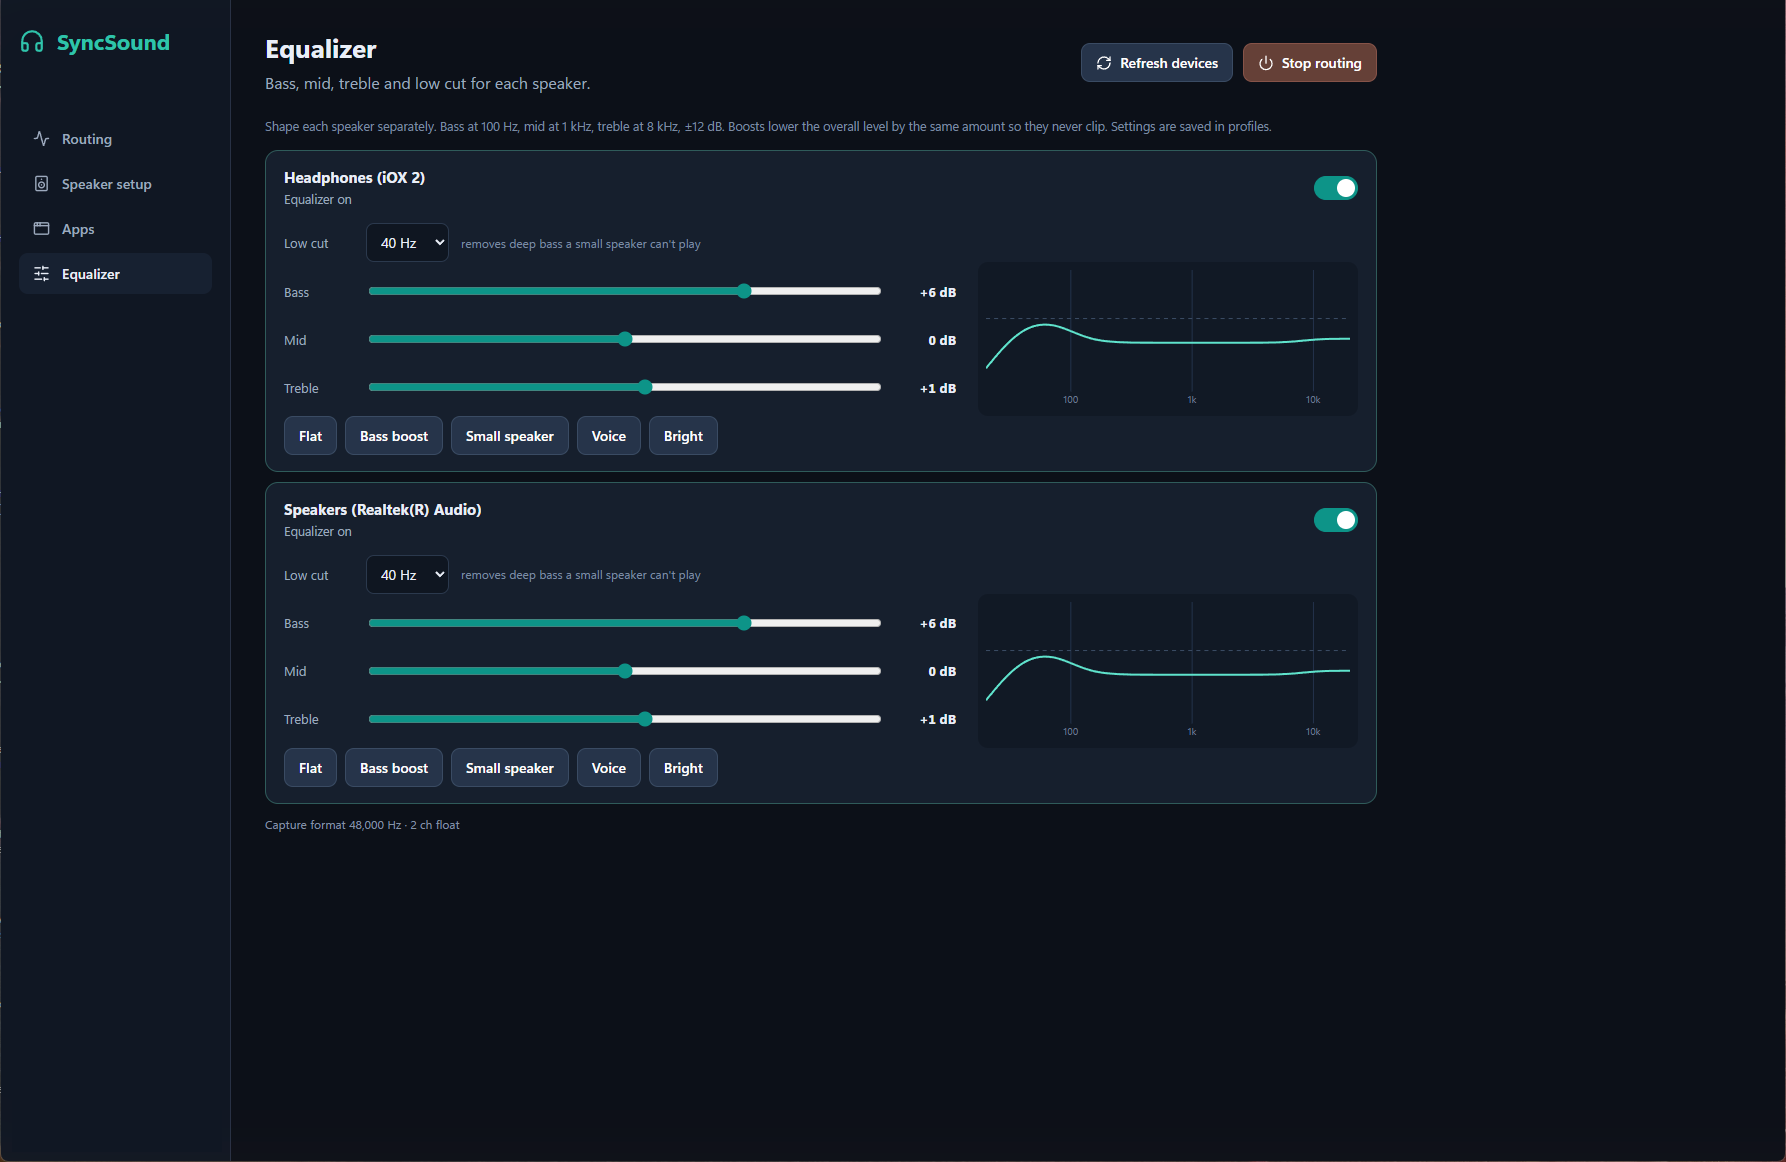
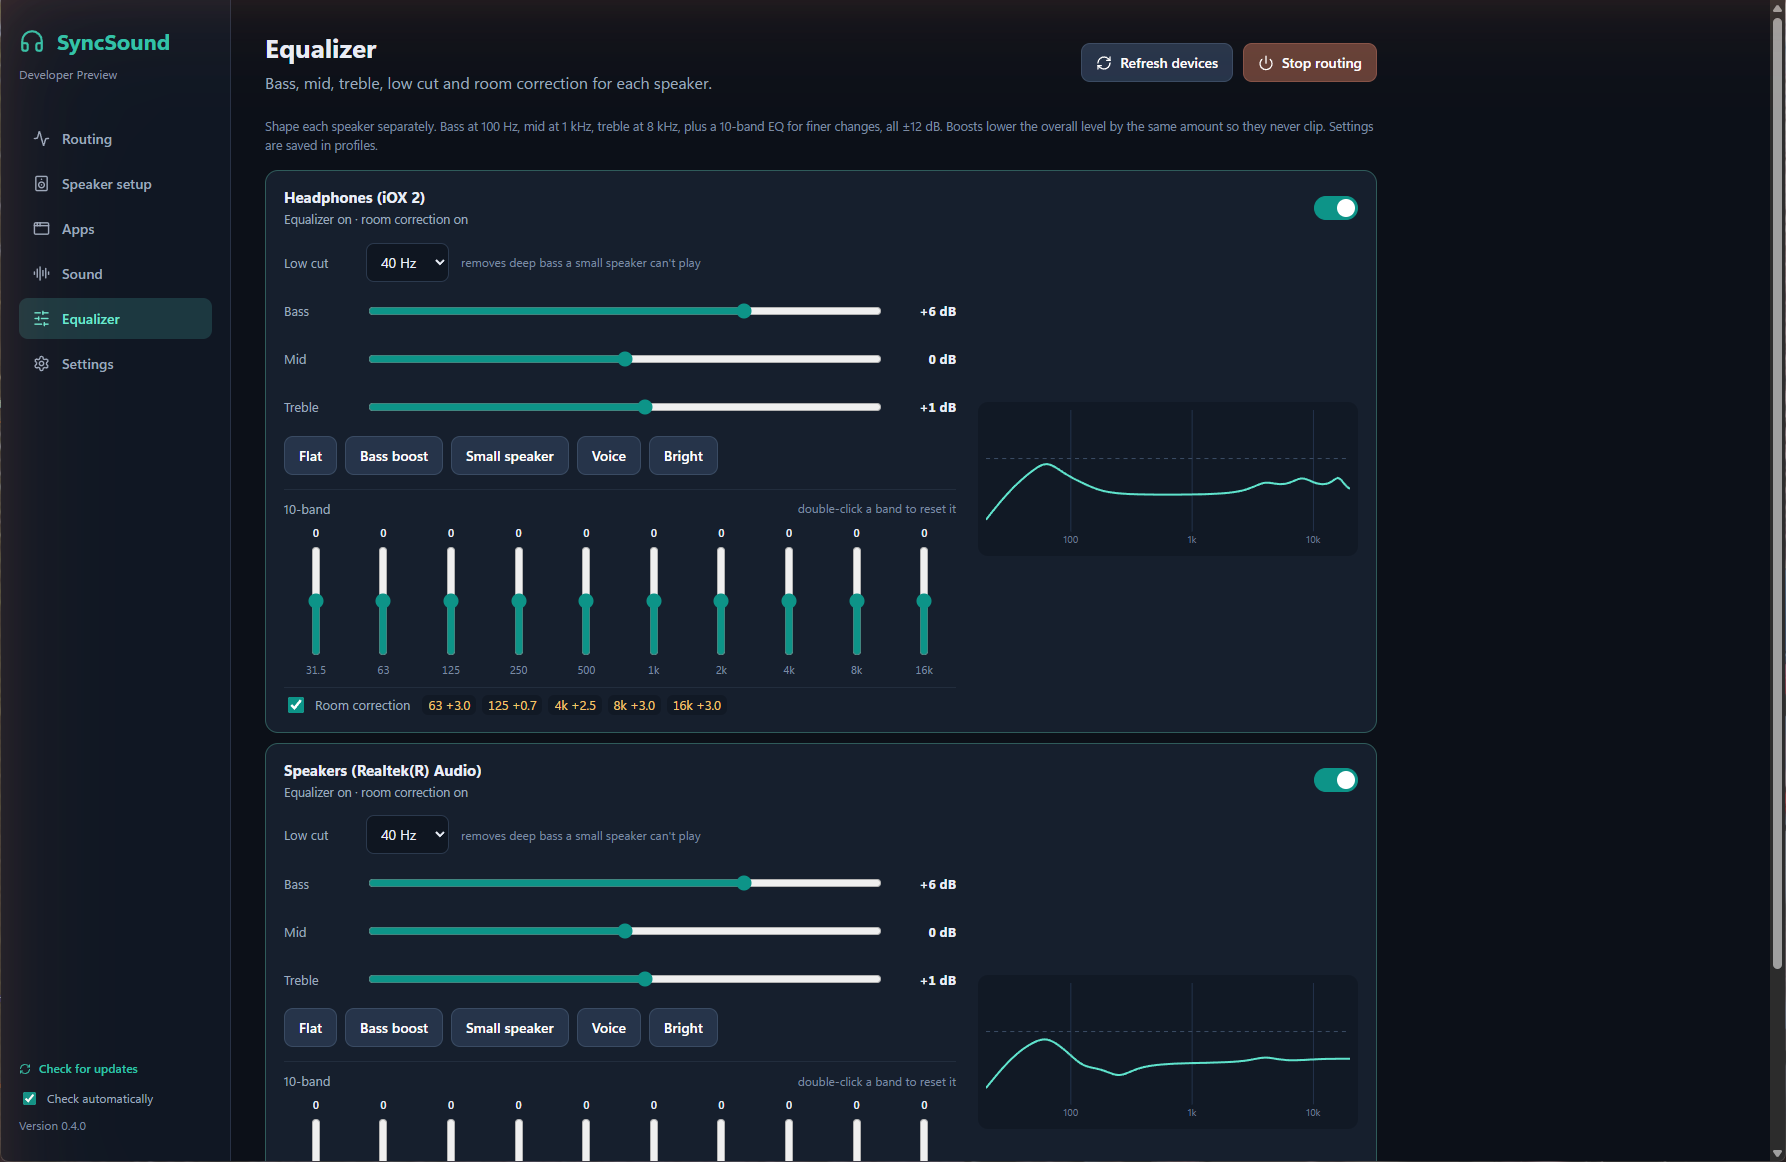
Update website and README for the Sound tab, 10-band EQ and room target

diff --git a/site/index.html b/site/index.html
@@ -28,6 +28,7 @@
       <nav aria-label="Sections">
         <a href="#demo">Demo</a>
         <a href="#features">Features</a>
+        <a href="#sound">Sound</a>
         <a href="#how">How it works</a>
         <a href="#faq">FAQ</a>
       </nav>
@@ -135,7 +136,7 @@
             <div class="cell-copy">
               <i class="ph ph-sliders-horizontal"></i>
               <h3>EQ and room correction per speaker</h3>
-              <p>Bass, mid, treble and low cut for each output. Measure room plays a sweep and stores a gentle 10-band correction that mostly cuts booms.</p>
+              <p>Bass, mid, treble, low cut and a 10-band EQ for each output. Measure room plays a sweep and aims each speaker at a warm or flat target, mostly by cutting booms.</p>
             </div>
             <img src="assets/04-equalizer.webp" width="1400" height="911" loading="lazy" alt="Equalizer tab with sliders and a frequency response curve">
           </article>
@@ -147,6 +148,25 @@
             </div>
           </article>
         </div>
+      </div>
+    </section>
+
+    <section class="sound" id="sound">
+      <div class="wrap sound-grid">
+        <div class="sound-copy reveal">
+          <h2>Make cheap speakers sound like more</h2>
+          <p>Small speakers can't play deep bass, bright ones get tiring, and everything sounds thin at low volume. The Sound tab fixes the problems you actually hear.</p>
+          <ul class="sound-list">
+            <li><i class="ph ph-music-notes"></i><div><strong>Listening modes</strong><span>Music, Movie, Game or Voice in one click. Pick an app and its mode turns on by itself while it plays.</span></div></li>
+            <li><i class="ph ph-speaker-simple-high"></i><div><strong>Bass where it can be played</strong><span>Mark a speaker as small and its deep bass goes to a subwoofer or bigger speaker. Virtual bass adds harmonics so you still hear the low notes.</span></div></li>
+            <li><i class="ph ph-waveform"></i><div><strong>Tone that suits your speakers</strong><span>Warm or bright tilt, loudness for quiet listening, stereo width for speakers close together, and de-harsh for sharp treble only when it gets loud.</span></div></li>
+            <li><i class="ph ph-moon"></i><div><strong>Even volume and night mode</strong><span>Quiet videos come up, loud ads come down, and late-night films keep the dialogue without the explosions.</span></div></li>
+            <li><i class="ph ph-chart-bar"></i><div><strong>See what each speaker plays</strong><span>A live spectrum per speaker, measured after every effect, so you can watch a change work.</span></div></li>
+          </ul>
+        </div>
+        <figure class="sound-shot reveal">
+          <img src="assets/05-sound.webp" width="1400" height="911" loading="lazy" alt="Sound tab with listening modes, a live spectrum for two speakers, and tone sliders for tilt, loudness, width and de-harsh">
+        </figure>
       </div>
     </section>
 
@@ -179,6 +199,10 @@
           <details>
             <summary>Does it work with any Bluetooth headphones?</summary>
             <p>Any headphones or speakers Windows shows as a playback device. Bluetooth delay varies by model and codec, which is why SyncSound measures it with your microphone instead of guessing.</p>
+          </details>
+          <details>
+            <summary>Will it make my cheap speakers sound better?</summary>
+            <p>Usually, yes, within what the speaker can do. Bass routing stops small speakers distorting, virtual bass and loudness make them sound fuller, and de-harsh tames shrill treble. No software can make a small speaker play a real 40 Hz note; for that, add a subwoofer and set it as the bass speaker.</p>
           </details>
           <details>
             <summary>Is it free?</summary>

diff --git a/site/style.css b/site/style.css
@@ -125,6 +125,18 @@ section.demo, section.features, section.how, section.faq { padding: 104px 0 0; }
 .cell-tall img { aspect-ratio: auto; flex: 1; min-height: 240px; }
 .cell:nth-child(2), .cell:nth-child(6) { background: linear-gradient(160deg, var(--accent-soft), transparent 60%), var(--panel); }
 
+/* Sound */
+section.sound { padding: 104px 0 0; }
+.sound-grid { display: grid; grid-template-columns: 0.9fr 1.1fr; gap: 56px; align-items: center; }
+.sound-copy h2 { font-size: clamp(30px, 3.6vw, 44px); }
+.sound-copy > p { margin-top: 12px; color: var(--muted); max-width: 52ch; }
+.sound-list { list-style: none; margin: 28px 0 0; padding: 0; display: grid; gap: 18px; }
+.sound-list li { display: grid; grid-template-columns: 40px 1fr; gap: 14px; align-items: start; }
+.sound-list i { display: grid; place-items: center; width: 40px; height: 40px; border-radius: 11px; background: var(--accent-soft); color: var(--accent); font-size: 21px; }
+.sound-list strong { display: block; font-weight: 600; font-size: 17px; }
+.sound-list span { display: block; margin-top: 3px; color: var(--muted); font-size: 15px; }
+.sound-shot { margin: 0; border-radius: var(--radius); overflow: hidden; border: 1px solid var(--line); box-shadow: var(--shadow); background: var(--panel); }
+
 /* Steps */
 .steps { list-style: none; margin: 0; padding: 0; display: grid; grid-template-columns: repeat(3, 1fr); gap: 0; border-top: 1px solid var(--line); }
 .steps li { padding: 28px 28px 0 0; }
@@ -165,7 +177,7 @@ details p { padding: 0 0 22px; color: var(--muted); max-width: 64ch; }
 /* Responsive */
 @media (max-width: 960px) {
   .hero { padding: 48px 0 72px; }
-  .hero-grid, .faq-grid { grid-template-columns: 1fr; gap: 40px; }
+  .hero-grid, .faq-grid, .sound-grid { grid-template-columns: 1fr; gap: 40px; }
   .bento { grid-template-columns: 1fr 1fr; grid-template-areas: "route route" "calib tray" "room apps" "eq eq"; }
   .cell-tall img { flex: none; aspect-ratio: 16 / 8; min-height: 0; }
   .nav nav { display: none; }

diff --git a/README.md b/README.md
@@ -9,6 +9,8 @@
 | ![Speaker setup](docs/screenshots/02-speaker-setup.png) | ![Equalizer](docs/screenshots/04-equalizer.png) |
 | **Routing** | **Route only selected apps** |
 | ![Routing](docs/screenshots/01-routing.png) | ![Apps](docs/screenshots/03-apps.png) |
+| **Sound: listening modes, live spectrum, tone** | |
+| ![Sound](docs/screenshots/05-sound.png) | |
 
 ## What works
 
